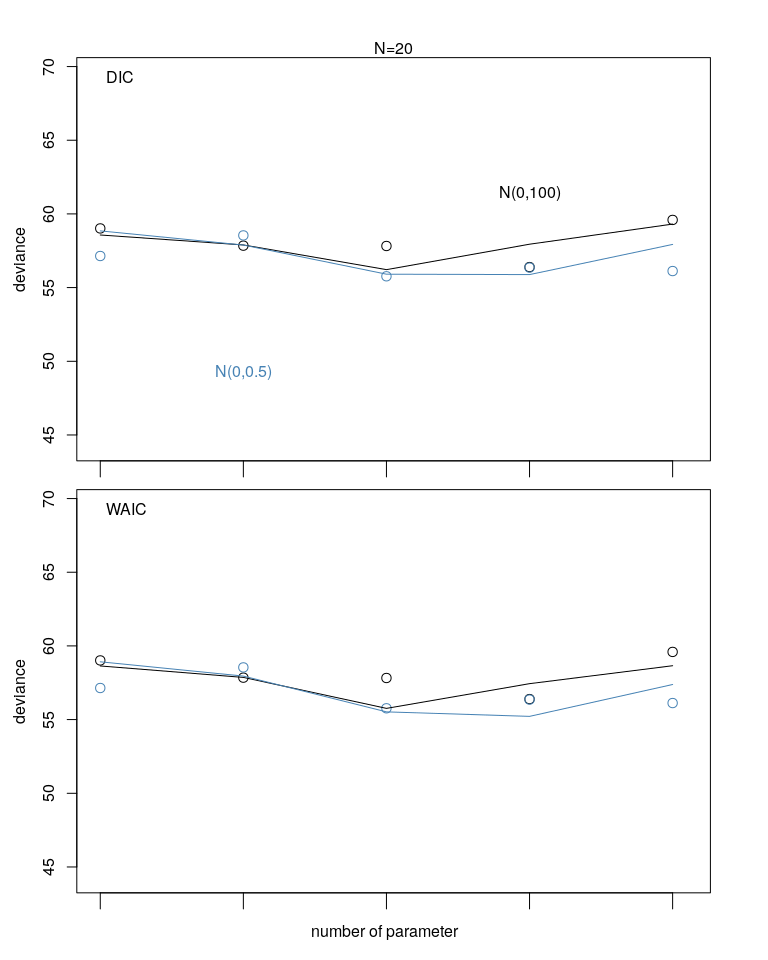
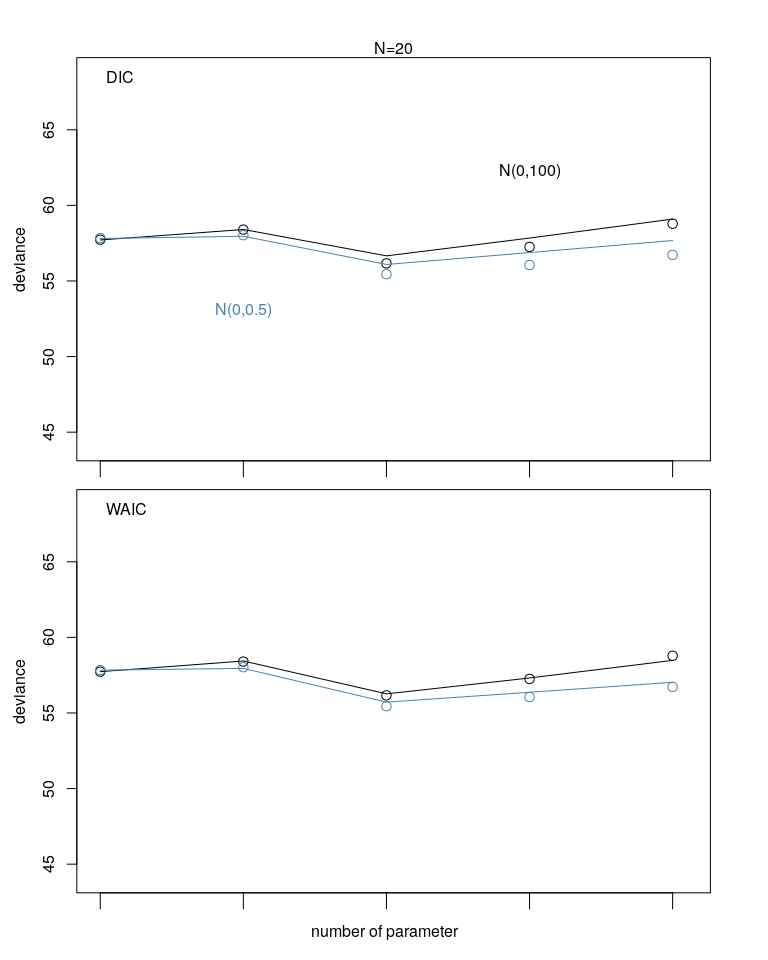
still working on the plots

diff --git a/Chapter 6/chapter6b.md b/Chapter 6/chapter6b.md
@@ -191,7 +191,7 @@ dev <- sapply( kseq, function(k) {
   # takes a long time ~ around an hour or so
   #r <- replicate( 1e4, sim.train.test( N=N, k=k, rho=c(0.15, -0.4)), mc.cores = 4 );
   # faster to use mcreplicate (can use multiple cpu cores)
-  r <- mcreplicate( 1e2, sim.train.test( N=N, k=k, rho=c(0.15, -0.4)), mc.cores = 4 );
+  r <- mcreplicate( 1e4, sim.train.test( N=N, k=k, rho=c(0.15, -0.4)), mc.cores = 4 );
   c( mean(r[1, ]), mean(r[2,] ), sd(r[1,]), sd(r[2,]) )
   # mean deviance in sample, mean deviance out sample, sd in sample deviance, sd out sample deviance
 })
@@ -205,7 +205,7 @@ kseq <- 1:5
 dev100 <- sapply( kseq, function(k) {
   print(k);
   # takes a long time
-  r <- mcreplicate( 1e2, sim.train.test( N=N, k=k, rho=c(0.15, -0.4)), mc.cores=4 );
+  r <- mcreplicate( 1e4, sim.train.test( N=N, k=k, rho=c(0.15, -0.4)), mc.cores=4 );
   c( mean(r[1, ]), mean(r[2,] ), sd(r[1,]), sd(r[2,]) )
   # mean deviance in sample, mean deviance out sample, sd in sample deviance, sd out sample deviance
 })
@@ -220,9 +220,9 @@ text(2-0.15, dev[1,2], labels=c("in"), col="steelblue")
 text(2+0.3, dev[2,2], labels=c("out"))
 
 mtext( concat( "N=", 20))
-points( (1:5)+0.1, dev[2,], cex=1.3)   # out of sample deviance, slightly right of in sample deviance
+points( (1:5)+0.1, dev[2,], cex=1.3)  # out of sample deviance, slightly right of in sample deviance
 for ( i in kseq) {
-  pts_in <- dev[1,i] + c(-1,1)*dev[3,i]    # standard deviation of in sample
+  pts_in <- dev[1,i] + c(-1,1)*dev[3,i]   # standard deviation of in sample
   pts_out <- dev[2,i] + c(-1,1)*dev[4,i]
   lines( c(i,i), pts_in, col="steelblue", lwd=2)
   lines( c(i,i)+0.1, pts_out, lwd=2 )
@@ -238,9 +238,9 @@ text(2-0.15, dev100[1,2], labels=c("in"), col="steelblue")
 text(2+0.3, dev100[2,2], labels=c("out"))
 
 mtext( concat( "N=", N))
-points( (1:5)+0.1, dev100[2,], cex=1.3)   # out of sample deviance, slightly right of in sample deviance
+points( (1:5)+0.1, dev100[2,], cex=1.3) # out of sample deviance, slightly right of in sample deviance
 for ( i in kseq) {
-  pts_in <- dev100[1,i] + c(-1,1)*dev100[3,i]    # standard deviation of in sample
+  pts_in <- dev100[1,i] + c(-1,1)*dev100[3,i]  # standard deviation of in sample
   pts_out <- dev100[2,i] + c(-1,1)*dev100[4,i]
   lines( c(i,i), pts_in, col="steelblue", lwd=2)
   lines( c(i,i)+0.1, pts_out, lwd=2 )
@@ -283,7 +283,7 @@ for (i in 1:length(reg) ) {
   dev_r[[i]] <- sapply( kseq, function(k) {
     print(k);
     regi <- reg[i];
-    r <- mcreplicate( 1e2, sim.train.test( N=N, k=k, rho=c(0.15, -0.4), b_sigma=regi), mc.cores=4 );
+    r <- mcreplicate( 1e4, sim.train.test( N=N, k=k, rho=c(0.15, -0.4), b_sigma=regi), mc.cores=4 );
     c( mean(r[1, ]), mean(r[2,] ), sd(r[1,]), sd(r[2,]) )
     # mean deviance in sample, mean deviance out sample, sd in sample deviance, sd out sample deviance
   })
@@ -303,7 +303,7 @@ for (i in 1:length(reg)) {
     print(k);
     # takes a long time
     regi <- reg[i]
-    r <- mcreplicate( 1e2, sim.train.test( N=N, k=k, rho=c(0.15, -0.4), b_sigma=regi), mc.cores=4 );
+    r <- mcreplicate( 1e4, sim.train.test( N=N, k=k, rho=c(0.15, -0.4), b_sigma=regi), mc.cores=4 );
     c( mean(r[1, ]), mean(r[2,] ), sd(r[1,]), sd(r[2,]) )
     # mean deviance in sample, mean deviance out sample, sd in sample deviance, sd out sample deviance
   })
@@ -328,8 +328,8 @@ points(1:5, dev_r[[2]][1,], col="steelblue", lty=1, type="l")
 points(1:5, dev_r[[2]][2,], lty=1, type="l")
 
 # N(0,0.2)
-points(1:5, dev_r[[2]][1,], col="steelblue", lty=1, type="l", lwd=2)
-points(1:5, dev_r[[2]][2,], lty=1, type="l", lwd=2)
+points(1:5, dev_r[[3]][1,], col="steelblue", lty=1, type="l", lwd=2)
+points(1:5, dev_r[[3]][2,], lty=1, type="l", lwd=2)
 legend("bottomleft", c("N(0,1)", "N(0,0.5)", "N(0,0.2)"), lty = c(5, 1, 1), lwd=c(1,1,2), bty="n")
 mtext( concat( "N=", 20))
 
@@ -347,8 +347,8 @@ points(1:5, dev_r100[[2]][1,], col="steelblue", lty=1, type="l")
 points(1:5, dev_r100[[2]][2,], lty=1, type="l")
 
 # N(0,0.2)
-points(1:5, dev_r100[[2]][1,], col="steelblue", lty=1, type="l", lwd=2)
-points(1:5, dev_r100[[2]][2,], lty=1, type="l", lwd=2)
+points(1:5, dev_r100[[3]][1,], col="steelblue", lty=1, type="l", lwd=2)
+points(1:5, dev_r100[[3]][2,], lty=1, type="l", lwd=2)
 
 mtext( concat( "N=", 100))
 ```
@@ -372,7 +372,7 @@ aic100 <- dev100[1,] + 2*kseq
 
 par(mfrow=c(1,2))
 plot( 1:5, dev[1,], ylim=c(min(dev[1:2,]) - 5, max(dev[1:2,]) + 10),
-      xlim =c(1,5.1), xlab="number of parameters", ylab="deviance",
+      xlim =c(1,5.5), xlab="number of parameters", ylab="deviance",
       pch=16, col="steelblue", cex=1.3 )
 lines(aic, lty=2, lwd=1.5)
 
@@ -381,12 +381,12 @@ points( (1:5), dev[2,], cex=1.3)   # out of sample deviance, slightly right of i
 for ( i in kseq) {
   dif <- dev[2,i] - dev[1,i]
   arrows(i+0.07, dev[1,i], i+0.07, dev[2,i], length=0.05, angle=90, code=3)
-  text(i+0.18, dev[1,i]+0.5*dif, labels = round(dif, digits=1))
+  text(i+0.2, dev[1,i]+0.5*dif, labels = round(dif, digits=1))
   }
 
 # for N=100
 plot( 1:5, dev100[1,], ylim=c(min(dev100[1:2,]) - 5, max(dev100[1:2,]) + 10),
-      xlim =c(1,5.1), xlab="number of parameters", ylab="deviance",
+      xlim =c(1,5.5), xlab="number of parameters", ylab="deviance",
       pch=16, col="steelblue", cex=1.3 )
 lines(aic, lty=2, lwd=1.5)
 
@@ -395,7 +395,7 @@ points( (1:5), dev100[2,], cex=1.3)   # out of sample deviance, slightly right o
 for ( i in kseq) {
   dif <- dev100[2,i] - dev100[1,i]
   arrows(i+0.07, dev100[1,i], i+0.07, dev100[2,i], length=0.05, angle=90, code=3)
-  text(i+0.18, dev100[1,i]+0.5*dif, labels = round(dif, digits=1))
+  text(i+0.2, dev100[1,i]+0.5*dif, labels = round(dif, digits=1))
 }
 ```
 
@@ -460,7 +460,7 @@ dic <- dev.hat + 2*p.D    # = dev.bar + ( dev.bar - dev.hat )
 dic
 ```
 
-    ## [1] 419.5674
+    ## [1] 419.3113
 
 WAIC - Widely Applicable Information Critera
 ============================================
@@ -513,7 +513,7 @@ se <- sqrt( n_cases*var( waic_vec ) )
 se
 ```
 
-    ## [1] 14.41841
+    ## [1] 14.22904
 
 ``` r
 # almost the same, some difference remains because of simulation variance
@@ -544,7 +544,7 @@ print(ic)
 ```
 
     ## Deviance      AIC      DIC     WAIC 
-    ## 413.1575 419.1575 419.5674 421.1511
+    ## 413.1576 419.1576 419.3113 420.6840
 
 This is better seen in a plot, so as before, we compute a simulation and see how DIC and WAIC fare, in particular, how good do they estimate **out-of-sample deviance**?
 
@@ -558,7 +558,7 @@ for (i in 1:length(reg) ) {
   dev_DIC_WAIC[[i]] <- sapply( kseq, function(k) {
     print(k);
     regi <- reg[i];
-    r <- mcreplicate( 1e2, sim.train.test( N=N, k=k, rho=c(0.15, -0.4), b_sigma=regi, 
+    r <- mcreplicate( 1e4, sim.train.test( N=N, k=k, rho=c(0.15, -0.4), b_sigma=regi, 
                                             DIC=TRUE, WAIC=TRUE), mc.cores=4 );
     c( mean(r[1, ]), mean(r[2,] ), mean(r[3,]), mean(r[4,]) )
     # mean deviance in sample, mean deviance out sample, mean DIC, mean WAIC
@@ -578,7 +578,7 @@ axis(side = 1, at = 1:5, labels = FALSE, tck = -0.04)
 points( 1:5, dev_DIC_WAIC[[2]][2,], col="steelblue", cex=1.3)
 lines( dev_DIC_WAIC[[1]][3,] )
 lines( dev_DIC_WAIC[[2]][3,], col="steelblue")
-text(2, dev_DIC_WAIC[[2]][1,2]-5, "N(0,0.5)", col="steelblue")
+text(2, dev_DIC_WAIC[[2]][2,2]-5, "N(0,0.5)", col="steelblue")
 text(4, dev_DIC_WAIC[[1]][2,4]+5, "N(0,100)")
 legend("topleft", "DIC", bty="n")
 mtext(text="deviance", side=2, line=2.5, outer=FALSE)
@@ -597,3 +597,5 @@ mtext(text="number of parameter",side=1,line=1,outer=TRUE)
 ```
 
 ![](chapter6b_files/figure-markdown_github/unnamed-chunk-28-1.png)
+
+The points in the plot are the out of sample deviance, once for the flat prior ![N(0,100)](https://latex.codecogs.com/png.latex?N%280%2C100%29 "N(0,100)") in black, and once for the regularizing prior ![N(0,0.5)](https://latex.codecogs.com/png.latex?N%280%2C0.5%29 "N(0,0.5)") in blue. The lines are the DIC respective WAIC, also both with flat and regularizing prior. While the DIC and WAIC alone can already give a good estimate of the out-of-sampe deviance, using regularizing priors still helps.
